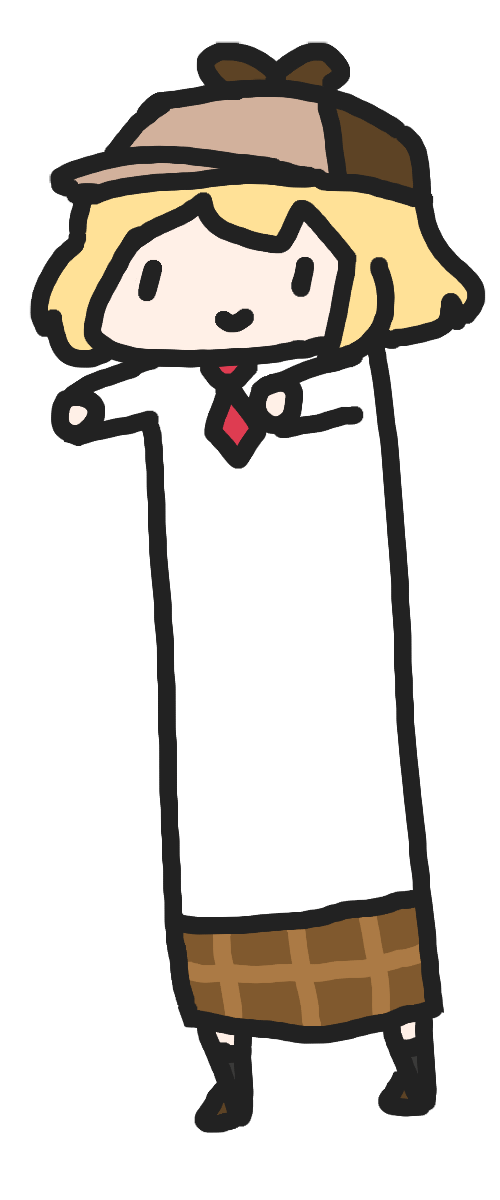
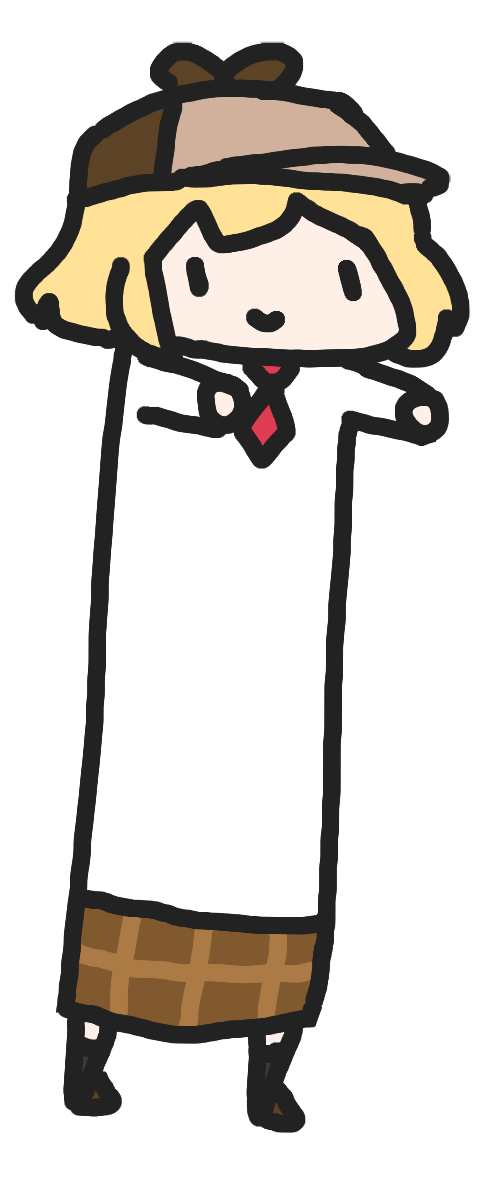
Finalizado parte2 Home

Changed region(s): [[0.03, 0.0308, 0.99, 0.9558]]

diff --git a/public/index.html b/public/index.html
@@ -22,7 +22,7 @@
                     <span class="titulo">Descubra sua visão do mundo dos Animes!</span>
                     <span class="registro">
                         <a href="cadastro.html" class="botao-cadastro">Comece Agora</a>
-                        <a href="cadastro.html" class="imagem_ame_botao">
+                        <a href="cadastro.html" class="imagem-ame-botao">
                             <img src="assets/amelia-sleeping.png" alt="">
                         </a>
                     </span>
@@ -54,18 +54,101 @@
             <div class="container">
                 <div class="parte2">
                     <div class="box4">
-                        <div class="box-image">
-                            <img src="assets/posters/kimetsu-no-yaiba-season2-1.jpg" alt="" class="imagem-social2">
-                            <div id="anime_info" class="anime_info">
-                                
+                        <img class="imagem-ame-1" src="assets/amelia-long.png" alt="">
+                        <div class="item-legenda">
+                            <div class="anime-imagem">Imagem</div>
+                            <div class="anime-nome">Titulo</div>
+                            <div class="anime-nota">Nota</div>
+                            <div class="anime-status">Status</div>
+                            <div class="anime-eps">Episódios</div>
+                        </div>
+
+                        <div class="item-lista">
+                            <div class="status-barra completo"></div>
+                            <div class="anime-info">
+                                <img src="assets/posters/kimetsu-no-yaiba-season2-1.jpg" alt="">
+                                <span class="anime-nome">Demon Slayer: Season 2</span>
+                                <span class="anime-nota">
+                                    9
+                                </span>
+                                <span class="anime-status">
+                                    <div class="anime-status-cor completo"></div>
+                                    Completo
+                                </span>
+                                <span class="anime-eps">
+                                    11/11
+                                    <div class="check">✓</div>
+                                </span>
+
                             </div>
                         </div>
+
+                        <div class="item-lista">
+                            <div class="status-barra completo"></div>
+                            <div class="anime-info">
+                                <img src="assets/posters/Kaguya-sama-season1-1.jpg" alt="">
+                                <span class="anime-nome">Kaguya-sama: Love is War</span>
+                                <span class="anime-nota">
+                                    10
+                                </span>
+                                <span class="anime-status">
+                                    <div class="anime-status-cor completo"></div>
+                                    Completo
+                                </span>
+                                <span class="anime-eps">
+                                    12/12
+                                    <div class="check">✓</div>
+                                </span>
+
+                            </div>
+                        </div>
+
+                        <div class="item-lista">
+                            <div class="status-barra assistindo"></div>
+                            <div class="anime-info">
+                                <img src="assets/posters/spy-x-family-season1-1.jpg" alt="">
+                                <span class="anime-nome">Spy x Family</span>
+                                <span class="anime-nota">
+                                    10
+                                </span>
+                                <span class="anime-status">
+                                    <div class="anime-status-cor assistindo"></div>
+                                    Assitindo
+                                </span>
+                                <span class="anime-eps">
+                                    7/12
+                                    <div class="add">+</div>
+                                </span>
+
+                            </div>
+                        </div>
+
+                        <div class="item-lista item-fim">
+                            <div class="status-barra dropado"></div>
+                            <div class="anime-info">
+                                <img src="assets/posters/tokyo-ghoul-rootA-1.jpg" alt="">
+                                <span class="anime-nome">Tokyo Ghoul √A</span>
+                                <span class="anime-nota">
+                                    4
+                                </span>
+                                <span class="anime-status">
+                                    <div class="anime-status-cor dropado"></div>
+                                    Dropado
+                                </span>
+                                <span class="anime-eps">
+                                    3/11
+                                    <div class="add">+</div>
+                                </span>
+
+                            </div>
+                        </div>
+
                     </div>
                     <div class="box3">
                         <span class="tag-titulo">Crie</span>
                         <h1 class="titulo">Sua lista pessoal de Animes!</h1>
                         <span class="texto-desc">Registre quais animes você está acompanhando, quais já assistiu, quais
-                            abandonou e atribua notas à eles.</span>
+                            dropou e atribua notas à eles.</span>
                     </div>
                 </div>
             </div>

diff --git a/public/css/home.css b/public/css/home.css
@@ -1,5 +1,5 @@
 :root {
-    --margem-partes: 64px; 
+    --margem-partes: 64px;
 }
 
 /* BANNER - Começo */
@@ -13,7 +13,7 @@
     align-items: center;
     justify-content: center;
 
-    background-image: linear-gradient( var(--secundaria), var(--principal));
+    background-image: linear-gradient(var(--secundaria), var(--principal));
 }
 
 .banner .container {
@@ -48,6 +48,14 @@
     font-size: x-large;
 }
 
+.botao-cadastro:hover+.imagem-ame-botao {
+    filter: brightness(130%);
+}
+
+.registro:hover+.botao-cadastro {
+    background-color: white;
+}
+
 .box1 {
     padding: 48px;
     width: 40%;
@@ -61,7 +69,7 @@
     position: relative;
 }
 
-.box1 .registro .imagem_ame_botao {
+.box1 .registro .imagem-ame-botao {
     position: absolute;
     right: -48%;
 }
@@ -112,24 +120,13 @@
     justify-content: center;
 }
 
-.parte1, .parte2 {
+.parte1,
+.parte2 {
     height: 85%;
     display: flex;
     flex-direction: row;
     align-items: center;
     justify-content: space-between;
-}
-
-.parte2 .tag-titulo{
-    background-color: var(--secundaria);
-}
-
-.parte2 .box3 .titulo {
-    color: black;
-}
-
-.parte2 .box3 .texto-desc{
-    color: rgb(90, 90, 90);
 }
 
 .tag-titulo {
@@ -156,7 +153,6 @@
     font-size: var(--medium);
     font-weight: var(--peso);
     color: var(--subtexto)
-
 }
 
 .box4 {
@@ -172,9 +168,22 @@
     height: 100%;
 }
 
+.parte2 .tag-titulo {
+    background-color: var(--secundaria);
+}
+
+.parte2 .box3 .titulo {
+    color: black;
+}
+
+.parte2 .box3 .texto-desc {
+    color: black;
+}
+
 .box-image {
     display: flex;
     align-items: center;
+    justify-content: space-between;
     height: 100%;
     width: 100%;
     background-color: black;
@@ -182,8 +191,142 @@
     border-radius: var(--borda);
 }
 
-.imagem-social2 {
+.parte2 .box4 {
+    width: 53%;
+    position: relative;
+    z-index: 0;
+}
+
+.imagem-ame-1 {
+    position: absolute;
+    left: -15%;
+    bottom: -4%;
+    height: 65%;
+    z-index: 1;
+}
+
+.item-lista {
+    width: 100%;
+    height: 20%;
+    display: flex;
+    flex-direction: row;
+    background-color: black;
+    border-radius: var(--borda);
+    margin-bottom: 12px;
+}
+
+.status-barra {
     height: 100%;
+    width: 1%;
+    border-radius: var(--borda) 0px 0px var(--borda);
+    ;
+}
+
+.item-legenda {
+    width: 99%;
+    background-color: black;
+    padding: 2.5px;
+    display: flex;
+    flex-direction: row;
+    align-items: center;
+    margin-bottom: 12px;
+}
+
+.item-legenda .anime-imagem,
+.item-legenda .anime-nome,
+.item-legenda .anime-nota,
+.item-legenda .anime-status {
+    border-right: 2px solid var(--gray);
+    padding: 2.5px;
+    font-weight: normal;
+}
+
+.anime-imagem {
+    width: 13%;
+    display: flex;
+    align-items: center;
+    justify-content: center;
+}
+
+.anime-nome {
+    width: 43.5%;
+}
+
+.anime-nota {
+    width: 10%;
+    font-weight: bold;
+    text-align: center;
+}
+
+.anime-status {
+    display: flex;
+    align-items: center;
+    justify-content: center;
+    width: 20%;
+}
+
+.anime-eps {
+    width: 15%;
+    display: flex;
+    align-items: center;
+    justify-content: center;
+}
+
+.add {
+    display: flex;
+    justify-content: center;
+    align-items: flex-end;
+    background-color: var(--secundaria);
+    color: black;
+}
+
+.check {
+    display: flex;
+    justify-content: center;
+    align-items: flex-end;
+    background-color: var(--completo);
+    color: white;
+}
+
+.anime-status-cor,
+.add,
+.check {
+    margin-right: 5px;
+    margin-left: 5px;
+    width: 16px;
+    height: 16px;
+    border-radius: 100%;
+}
+
+.item-fim {
+    background-color: black;
+    -webkit-mask-image: linear-gradient( rgba(0, 0, 0, 1), rgba(0, 0, 0, 0));
+    -webkit-mask-repeat: no-repeat;
+}
+
+.assistindo {
+    background-color: var(--assistindo);
+}
+
+.completo {
+    background-color: var(--completo);
+}
+
+.dropado {
+    background-color: var(--dropado);
+}
+
+.anime-info {
+    width: 97%;
+    display: flex;
+    flex-direction: row;
+    align-items: center;
+    padding: 5px;
+}
+
+.anime-info img {
+    height: 100%;
+    padding-right: 5px;
 }
 
 .fundo2 {
@@ -195,4 +338,4 @@
     background-image: linear-gradient(var(--principal), var(--secundaria));
 }
 
-
+/* SOCIAL - Fim */

diff --git a/public/css/main.css b/public/css/main.css
@@ -6,6 +6,10 @@
     --principal: #E3FF00;
     --secundaria: #BAD1FC;
 
+    --assistindo: #58bb2b;
+    --completo: #2f4a96;
+    --dropado: #ad263a;
+
     /* FONTES */
     --fonte-principal: 'Segoe UI', Tahoma, Geneva, Verdana, sans-serif;
     --large: 48px;
